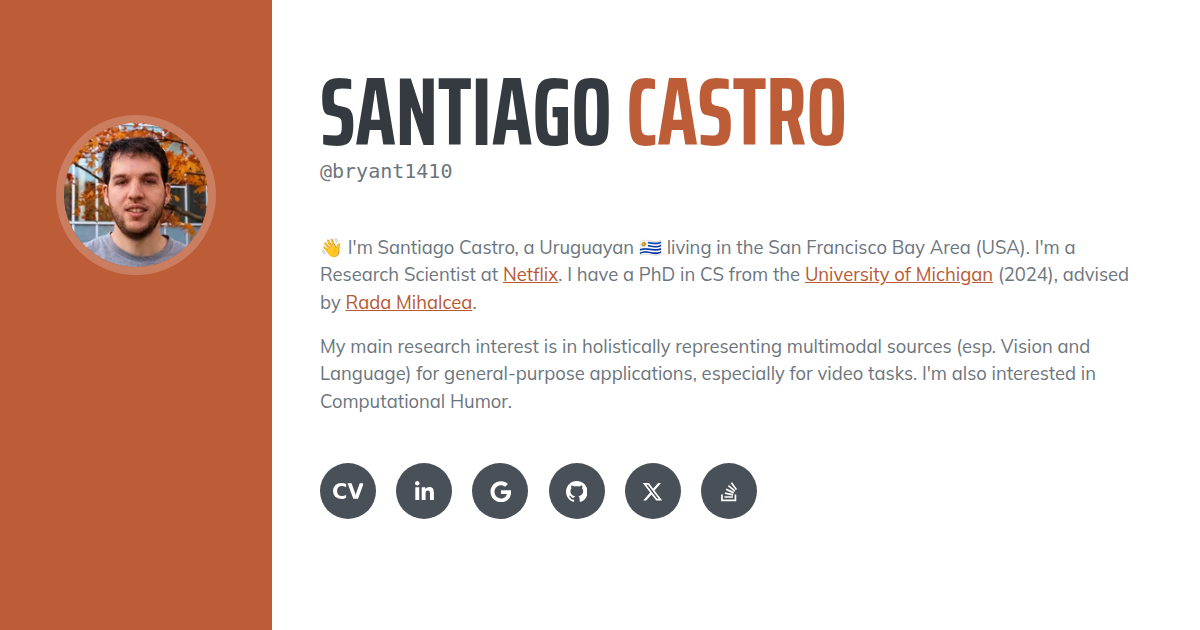
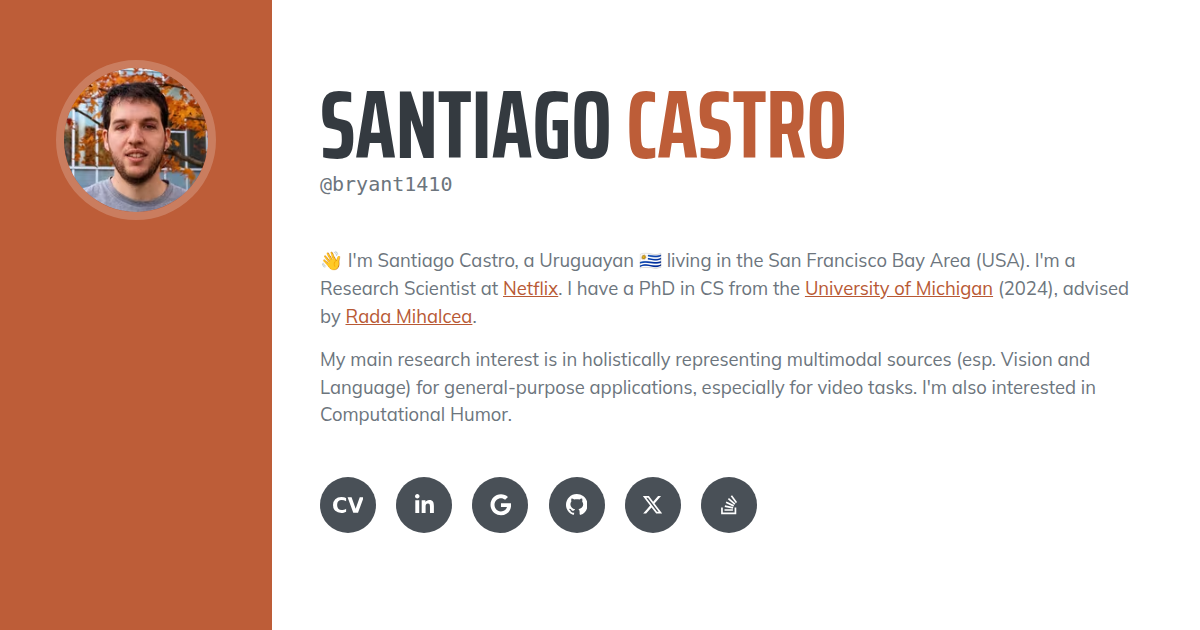
Improve the vertical alignment of the picture

diff --git a/index.html b/index.html
@@ -190,9 +190,8 @@
     }
 
     /*
-     * Decorative profile rail: on mobile, body::before draws the thin top orange
-     * accent bar while .profile-rail sits in normal flow right above the heading;
-     * on desktop, .profile-rail becomes the fixed left orange column.
+     * Decorative orange rail: on mobile, a thin top accent bar; on desktop,
+     * the fixed 17rem left sidebar column.
      */
     body::before {
       content: "";
@@ -219,23 +218,21 @@
 
     @media (min-width: 992px) {
       body::before {
-        display: none;
+        right: auto;
+        bottom: 0;
+        width: 17rem;
+        height: auto;
       }
 
       .profile-rail {
-        position: fixed;
-        top: 0;
-        bottom: 0;
-        left: 0;
+        position: absolute;
+        /* Centers the 10rem photo against the ~7.4rem title + handle block. */
+        top: -1.3rem;
+        left: -20rem;
         width: 17rem;
+        z-index: 1031;
         margin: 0;
-        /* Extra bottom padding lifts the centered photo above the middle,
-           matching the original layout. */
-        padding: 0.5rem 0.5rem 15.5rem;
-        background-color: var(--primary-color);
         display: flex;
-        flex-direction: column;
-        align-items: center;
         justify-content: center;
       }
 
@@ -260,11 +257,13 @@
 
     @media (min-width: 992px) {
       .intro {
+        min-height: 100vh;
         padding: 3rem;
       }
     }
 
     .intro-inner {
+      position: relative;
       width: 100%;
     }
 
